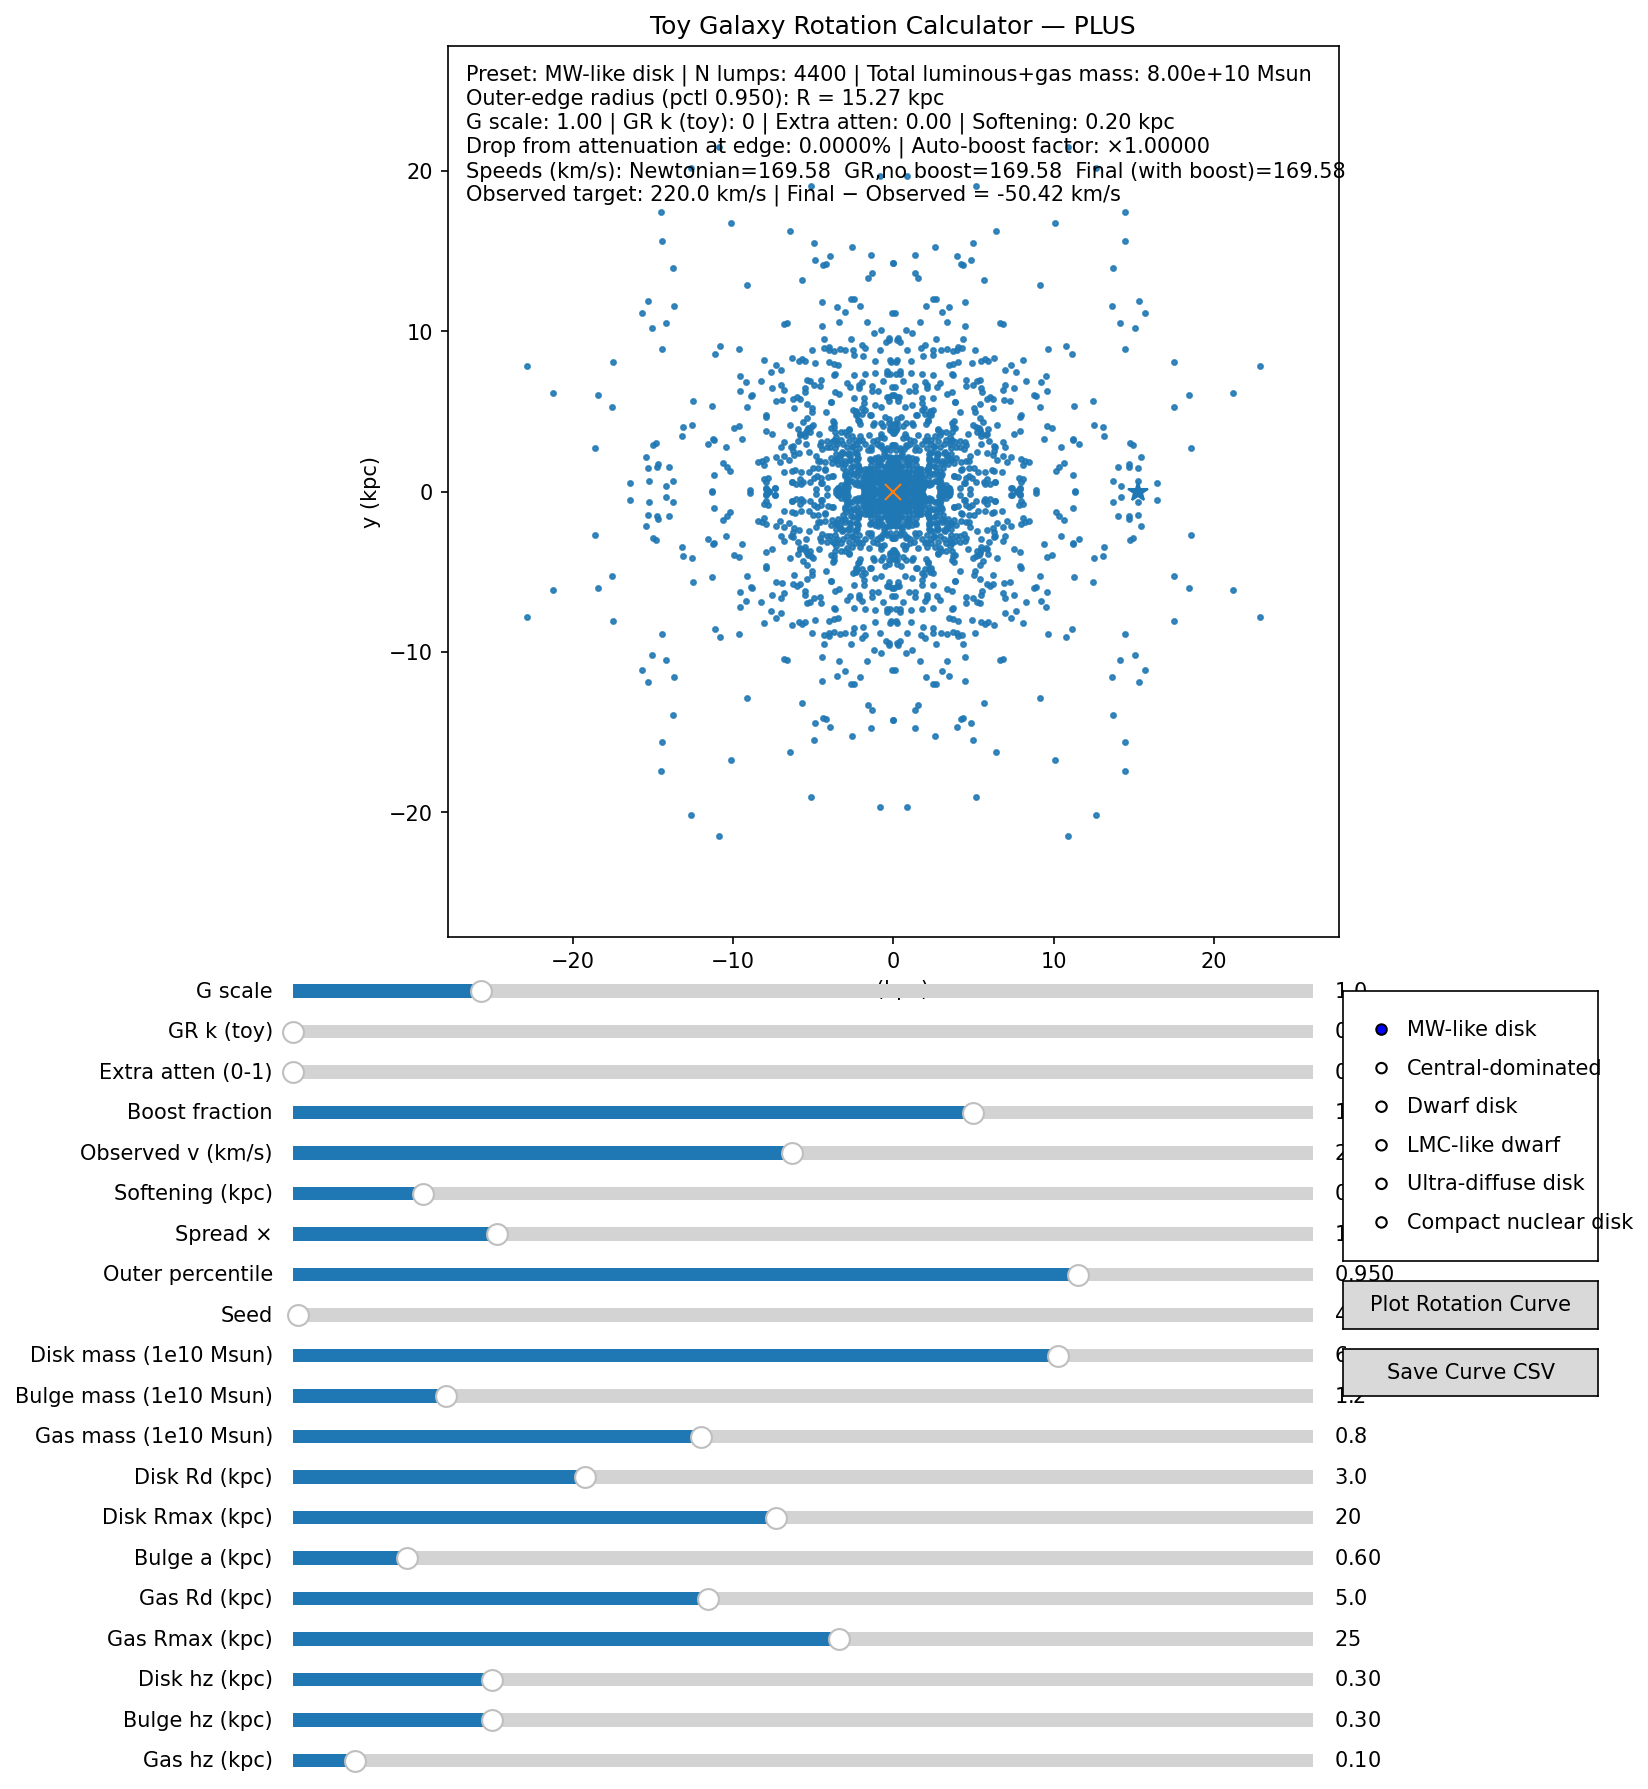
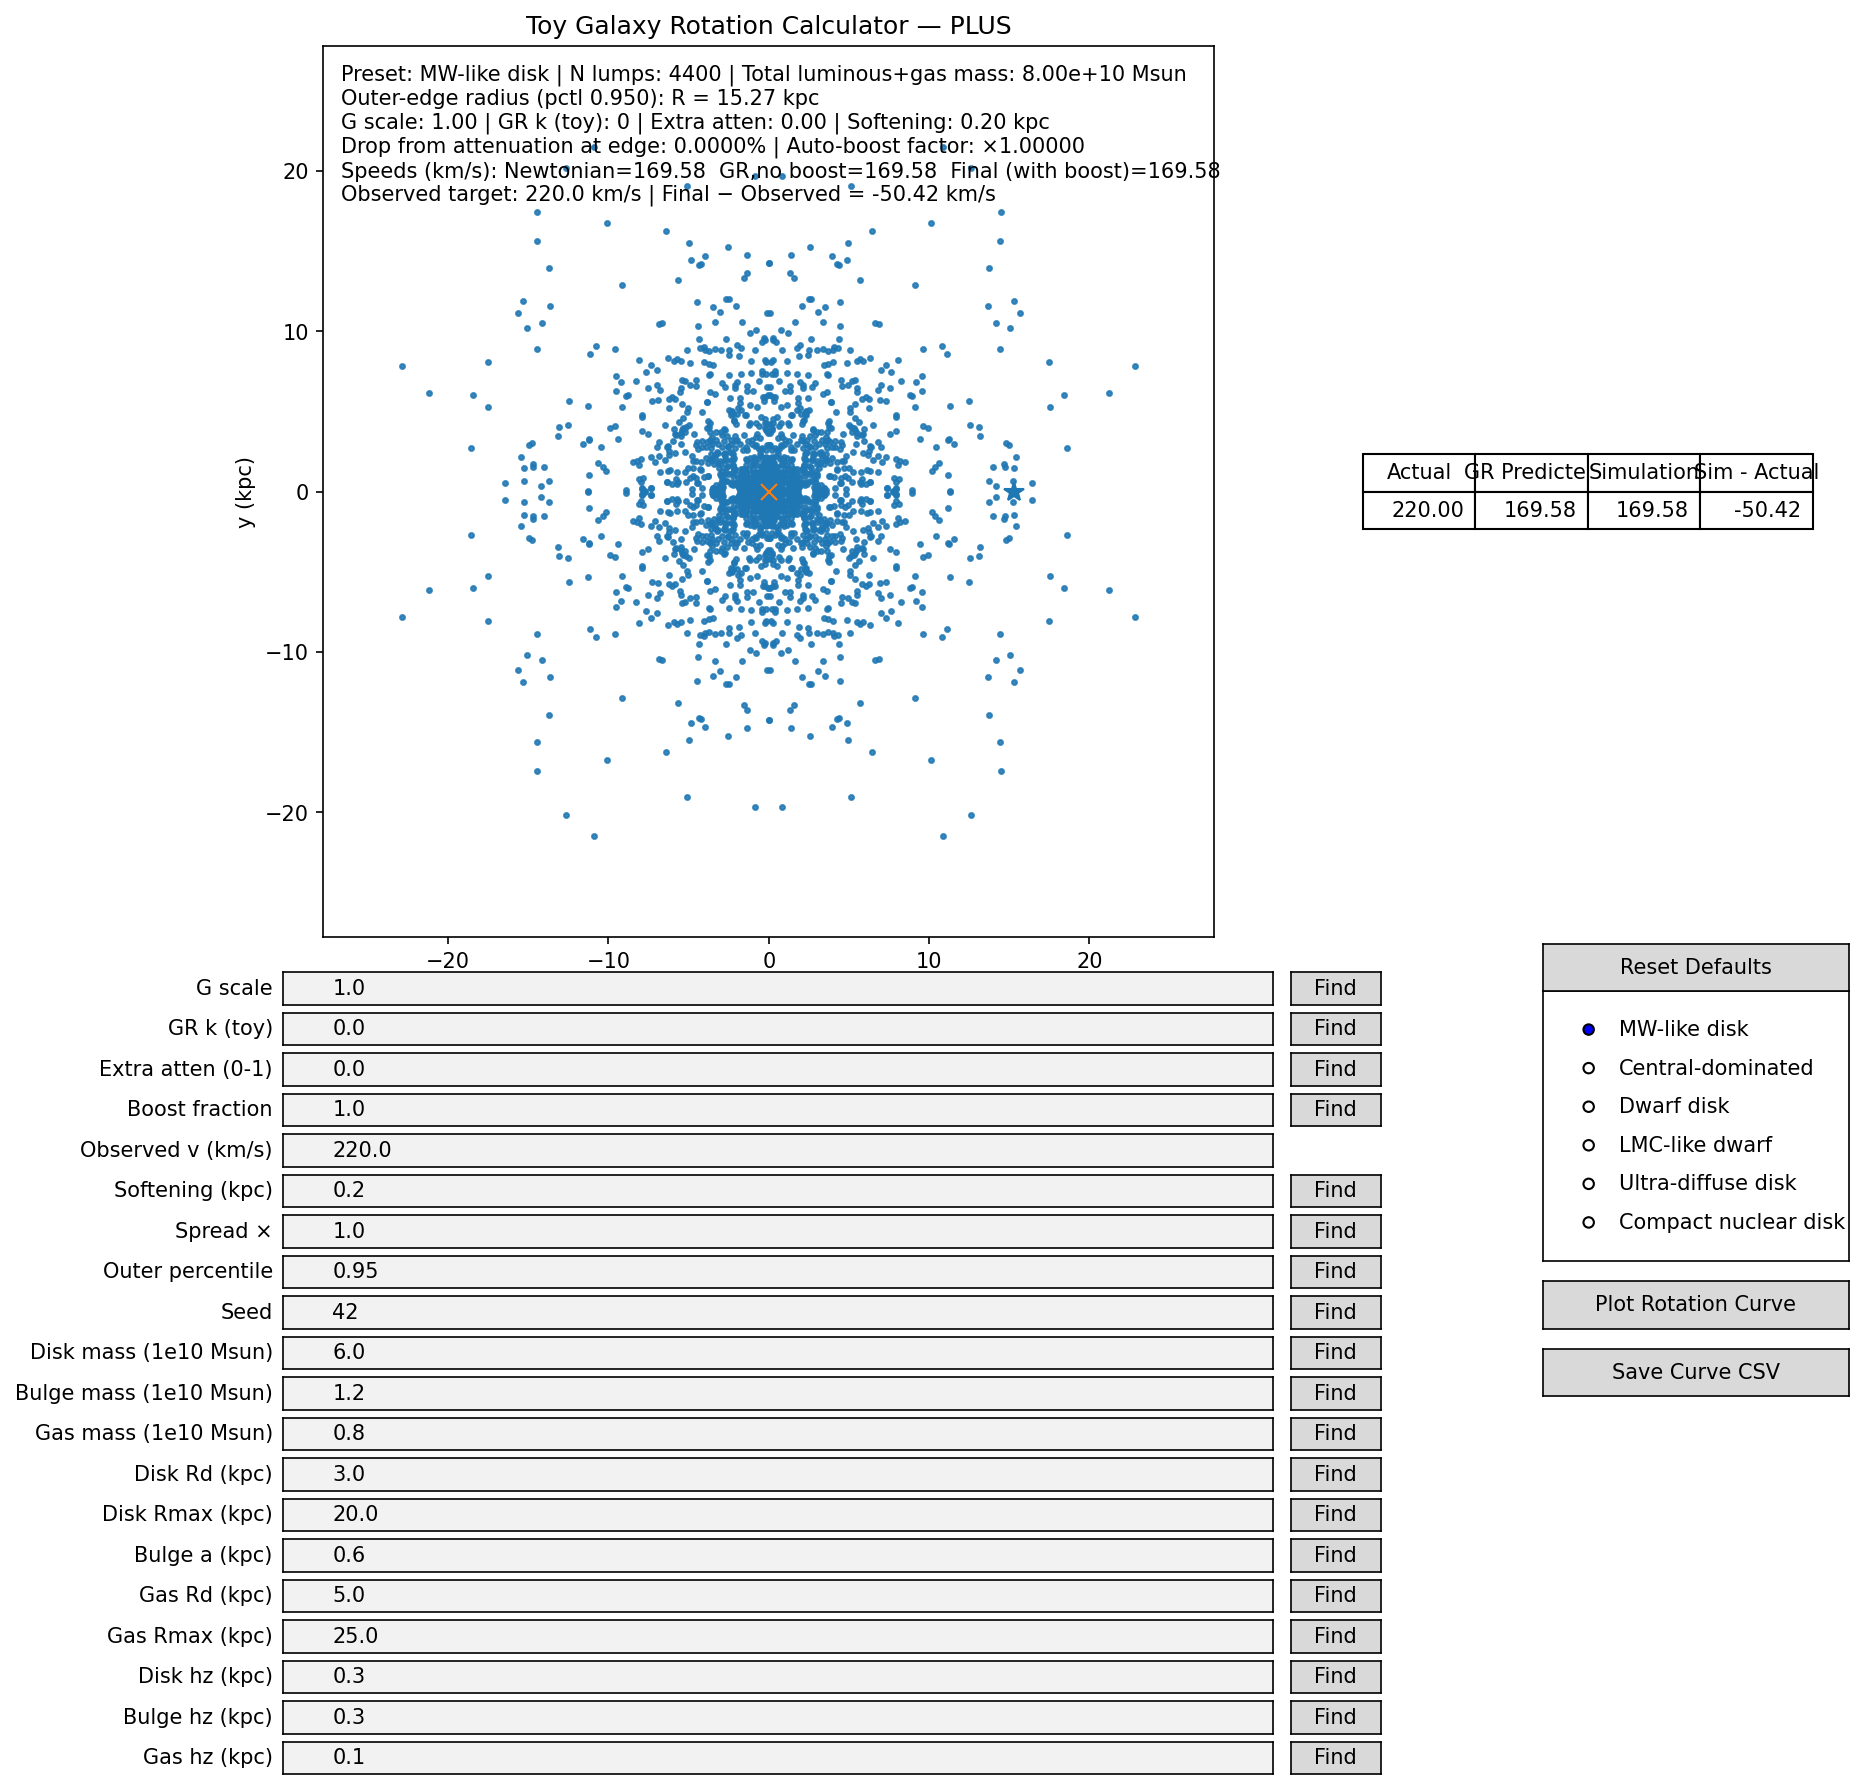
UI: tighten input field layout and add per-field Finder buttons that solve for values to match Simulation to Actual. Includes 1D search with bisection/grid refine.

diff --git a/toy_galaxy_rotation_calculator_plus.py b/toy_galaxy_rotation_calculator_plus.py
@@ -294,13 +294,13 @@ def main():
         tbl.set_fontsize(10)
         tbl.scale(1.0, 1.5)
 
-    # Physics numeric inputs
-    ax_sG   = fig.add_axes([0.10, 0.27, 0.68, 0.03])
-    ax_kGR  = fig.add_axes([0.10, 0.24, 0.68, 0.03])
-    ax_att  = fig.add_axes([0.10, 0.21, 0.68, 0.03])
-    ax_boost= fig.add_axes([0.10, 0.18, 0.68, 0.03])
-    ax_vobs = fig.add_axes([0.10, 0.15, 0.68, 0.03])
-    ax_soft = fig.add_axes([0.10, 0.12, 0.68, 0.03])
+    # Physics numeric inputs (tightened layout)
+    ax_sG   = fig.add_axes([0.10, 0.27, 0.55, 0.024])
+    ax_kGR  = fig.add_axes([0.10, 0.24, 0.55, 0.024])
+    ax_att  = fig.add_axes([0.10, 0.21, 0.55, 0.024])
+    ax_boost= fig.add_axes([0.10, 0.18, 0.55, 0.024])
+    ax_vobs = fig.add_axes([0.10, 0.15, 0.55, 0.024])
+    ax_soft = fig.add_axes([0.10, 0.12, 0.55, 0.024])
 
     tb_Gscale = TextBox(ax_sG,   'G scale',                 initial=str(float(args.gscale)))
     tb_kGR    = TextBox(ax_kGR,  'GR k (toy)',              initial=str(float(args.grk)))
@@ -316,10 +316,10 @@ def main():
     s_vobs   = TBWrapper(tb_vobs,   parse=float, clamp=(0.0, 450.0), default=float(args.vobs))
     s_soften = TBWrapper(tb_soft,   parse=float, clamp=(0.01, 1.5),  default=float(args.soften))
 
-    # Structural numeric inputs
-    ax_spread = fig.add_axes([0.10, 0.09, 0.68, 0.03])
-    ax_outer  = fig.add_axes([0.10, 0.06, 0.68, 0.03])
-    ax_seed   = fig.add_axes([0.10, 0.03, 0.68, 0.03])
+    # Structural numeric inputs (tightened layout)
+    ax_spread = fig.add_axes([0.10, 0.09, 0.55, 0.024])
+    ax_outer  = fig.add_axes([0.10, 0.06, 0.55, 0.024])
+    ax_seed   = fig.add_axes([0.10, 0.03, 0.55, 0.024])
     tb_spread = TextBox(ax_spread, 'Spread ×',              initial=str(float(args.spread)))
     tb_outer  = TextBox(ax_outer,  'Outer percentile',      initial=str(float(args.outer)))
     tb_seed   = TextBox(ax_seed,   'Seed',                  initial=str(int(args.seed)))
@@ -331,18 +331,18 @@ def main():
     ax_radio = fig.add_axes([0.80, 0.08, 0.17, 0.20])
     radio = RadioButtons(ax_radio, config_names, active=config_names.index(args.config))
 
-    # Component editor numeric inputs
-    ax_dm  = fig.add_axes([0.10,  0.00, 0.68, 0.03])
-    ax_bm  = fig.add_axes([0.10, -0.03, 0.68, 0.03])
-    ax_gm  = fig.add_axes([0.10, -0.06, 0.68, 0.03])
-    ax_rd  = fig.add_axes([0.10, -0.09, 0.68, 0.03])
-    ax_rmax= fig.add_axes([0.10, -0.12, 0.68, 0.03])
-    ax_ab  = fig.add_axes([0.10, -0.15, 0.68, 0.03])
-    ax_rdg = fig.add_axes([0.10, -0.18, 0.68, 0.03])
-    ax_rmg = fig.add_axes([0.10, -0.21, 0.68, 0.03])
-    ax_hzd = fig.add_axes([0.10, -0.24, 0.68, 0.03])
-    ax_hzb = fig.add_axes([0.10, -0.27, 0.68, 0.03])
-    ax_hzg = fig.add_axes([0.10, -0.30, 0.68, 0.03])
+    # Component editor numeric inputs (tightened layout)
+    ax_dm  = fig.add_axes([0.10,  0.00, 0.55, 0.024])
+    ax_bm  = fig.add_axes([0.10, -0.03, 0.55, 0.024])
+    ax_gm  = fig.add_axes([0.10, -0.06, 0.55, 0.024])
+    ax_rd  = fig.add_axes([0.10, -0.09, 0.55, 0.024])
+    ax_rmax= fig.add_axes([0.10, -0.12, 0.55, 0.024])
+    ax_ab  = fig.add_axes([0.10, -0.15, 0.55, 0.024])
+    ax_rdg = fig.add_axes([0.10, -0.18, 0.55, 0.024])
+    ax_rmg = fig.add_axes([0.10, -0.21, 0.55, 0.024])
+    ax_hzd = fig.add_axes([0.10, -0.24, 0.55, 0.024])
+    ax_hzb = fig.add_axes([0.10, -0.27, 0.55, 0.024])
+    ax_hzg = fig.add_axes([0.10, -0.30, 0.55, 0.024])
 
     tb_Mdisk = TextBox(ax_dm,   'Disk mass (1e10 Msun)',   initial=str(pp['M_disk']/1e10))
     tb_Mbulge= TextBox(ax_bm,   'Bulge mass (1e10 Msun)',  initial=str(pp['M_bulge']/1e10))
@@ -404,6 +404,118 @@ def main():
         refresh_main()
 
     btn_reset.on_clicked(reset_defaults)
+
+    # ---- Finder logic to match Simulation to Actual (Observed v) ----
+    def _eval_error_for(wrapper, candidate, is_structural):
+        """Return v_final - v_obs at candidate value for the given parameter.
+        Does minimal recomputation; no drawing.
+        """
+        prev = wrapper.val
+        # set
+        wrapper.set_val(candidate)
+        if is_structural:
+            rebuild_galaxy()
+        # compute
+        v_newton, v_gr_noboost, v_final, drop_frac, boost_factor = compute_speeds_at_point()
+        err = float(v_final - float(s_vobs.val))
+        # restore
+        wrapper.set_val(prev)
+        if is_structural:
+            rebuild_galaxy()
+        return err
+
+    def _solve_1d(wrapper, is_structural):
+        clamp = wrapper.clamp if wrapper.clamp is not None else (None, None)
+        lo, hi = clamp
+        if lo is None or hi is None:
+            # If no clamp, try a reasonable numeric window
+            lo, hi = -1e3, 1e3
+        is_int = (wrapper.parse is int)
+        # helper to coerce to valid domain
+        def coerce(x):
+            if is_int:
+                x = int(round(x))
+            x = max(lo, min(hi, x))
+            return x
+        # Bisection if sign change exists, else coarse search and refine
+        e_lo = _eval_error_for(wrapper, coerce(lo), is_structural)
+        e_hi = _eval_error_for(wrapper, coerce(hi), is_structural)
+        if np.isfinite(e_lo) and np.isfinite(e_hi) and e_lo*e_hi < 0:
+            a, b = coerce(lo), coerce(hi)
+            for _ in range(40):
+                m = coerce(0.5*(a+b))
+                e_m = _eval_error_for(wrapper, m, is_structural)
+                if abs(e_m) < 0.05:  # within 0.05 km/s
+                    return m
+                if e_lo * e_m <= 0:
+                    b, e_hi = m, e_m
+                else:
+                    a, e_lo = m, e_m
+            return coerce(0.5*(a+b))
+        # Coarse grid search
+        best_x, best_e = None, float('inf')
+        N = 15
+        for i in range(N+1):
+            x = coerce(lo + (hi-lo)*i/N)
+            e = _eval_error_for(wrapper, x, is_structural)
+            if abs(e) < best_e:
+                best_x, best_e = x, abs(e)
+        # Local refine around best
+        span = max(1 if is_int else 0.0, 0.1*(hi-lo))
+        a, b = coerce(best_x - span), coerce(best_x + span)
+        e_lo = _eval_error_for(wrapper, a, is_structural)
+        e_hi = _eval_error_for(wrapper, b, is_structural)
+        if np.isfinite(e_lo) and np.isfinite(e_hi) and e_lo*e_hi < 0:
+            # refine by bisection
+            for _ in range(30):
+                m = coerce(0.5*(a+b))
+                e_m = _eval_error_for(wrapper, m, is_structural)
+                if abs(e_m) < 0.05:
+                    return m
+                if e_lo * e_m <= 0:
+                    b, e_hi = m, e_m
+                else:
+                    a, e_lo = m, e_m
+            return coerce(0.5*(a+b))
+        return best_x
+
+    def _add_finder(next_to_ax, wrapper, label, is_structural):
+        # place a small button to the right of the given TextBox axis
+        bb = next_to_ax.get_position()
+        btn_ax = fig.add_axes([bb.x1 + 0.01, bb.y0, 0.05, bb.height])
+        btn = Button(btn_ax, 'Find')
+        def _on_click(_event=None):
+            sol = _solve_1d(wrapper, is_structural)
+            if sol is not None:
+                wrapper.set_val(sol)
+                refresh_main()
+        btn.on_clicked(_on_click)
+        return btn
+
+    # Finder buttons for physics (skip Observed v; it's the target itself)
+    _add_finder(ax_sG,   s_Gscale, 'Find', False)
+    _add_finder(ax_kGR,  s_kGR,    'Find', False)
+    _add_finder(ax_att,  s_att,    'Find', False)
+    _add_finder(ax_boost,s_boost,  'Find', False)
+    _add_finder(ax_soft, s_soften, 'Find', False)
+
+    # Finder buttons for structural
+    _add_finder(ax_spread, s_spread, 'Find', True)
+    _add_finder(ax_outer,  s_outer,  'Find', True)
+    _add_finder(ax_seed,   s_seed,   'Find', True)
+
+    # Finder buttons for components
+    _add_finder(ax_dm,   s_Mdisk, 'Find', True)
+    _add_finder(ax_bm,   s_Mbulge,'Find', True)
+    _add_finder(ax_gm,   s_Mgas,  'Find', True)
+    _add_finder(ax_rd,   s_Rd,    'Find', True)
+    _add_finder(ax_rmax, s_Rmax,  'Find', True)
+    _add_finder(ax_ab,   s_ab,    'Find', True)
+    _add_finder(ax_rdg,  s_Rdg,   'Find', True)
+    _add_finder(ax_rmg,  s_Rmg,   'Find', True)
+    _add_finder(ax_hzd,  s_hzd,   'Find', True)
+    _add_finder(ax_hzb,  s_hzb,   'Find', True)
+    _add_finder(ax_hzg,  s_hzg,   'Find', True)
 
     fig_rot = None; rot_lines = {}
 
